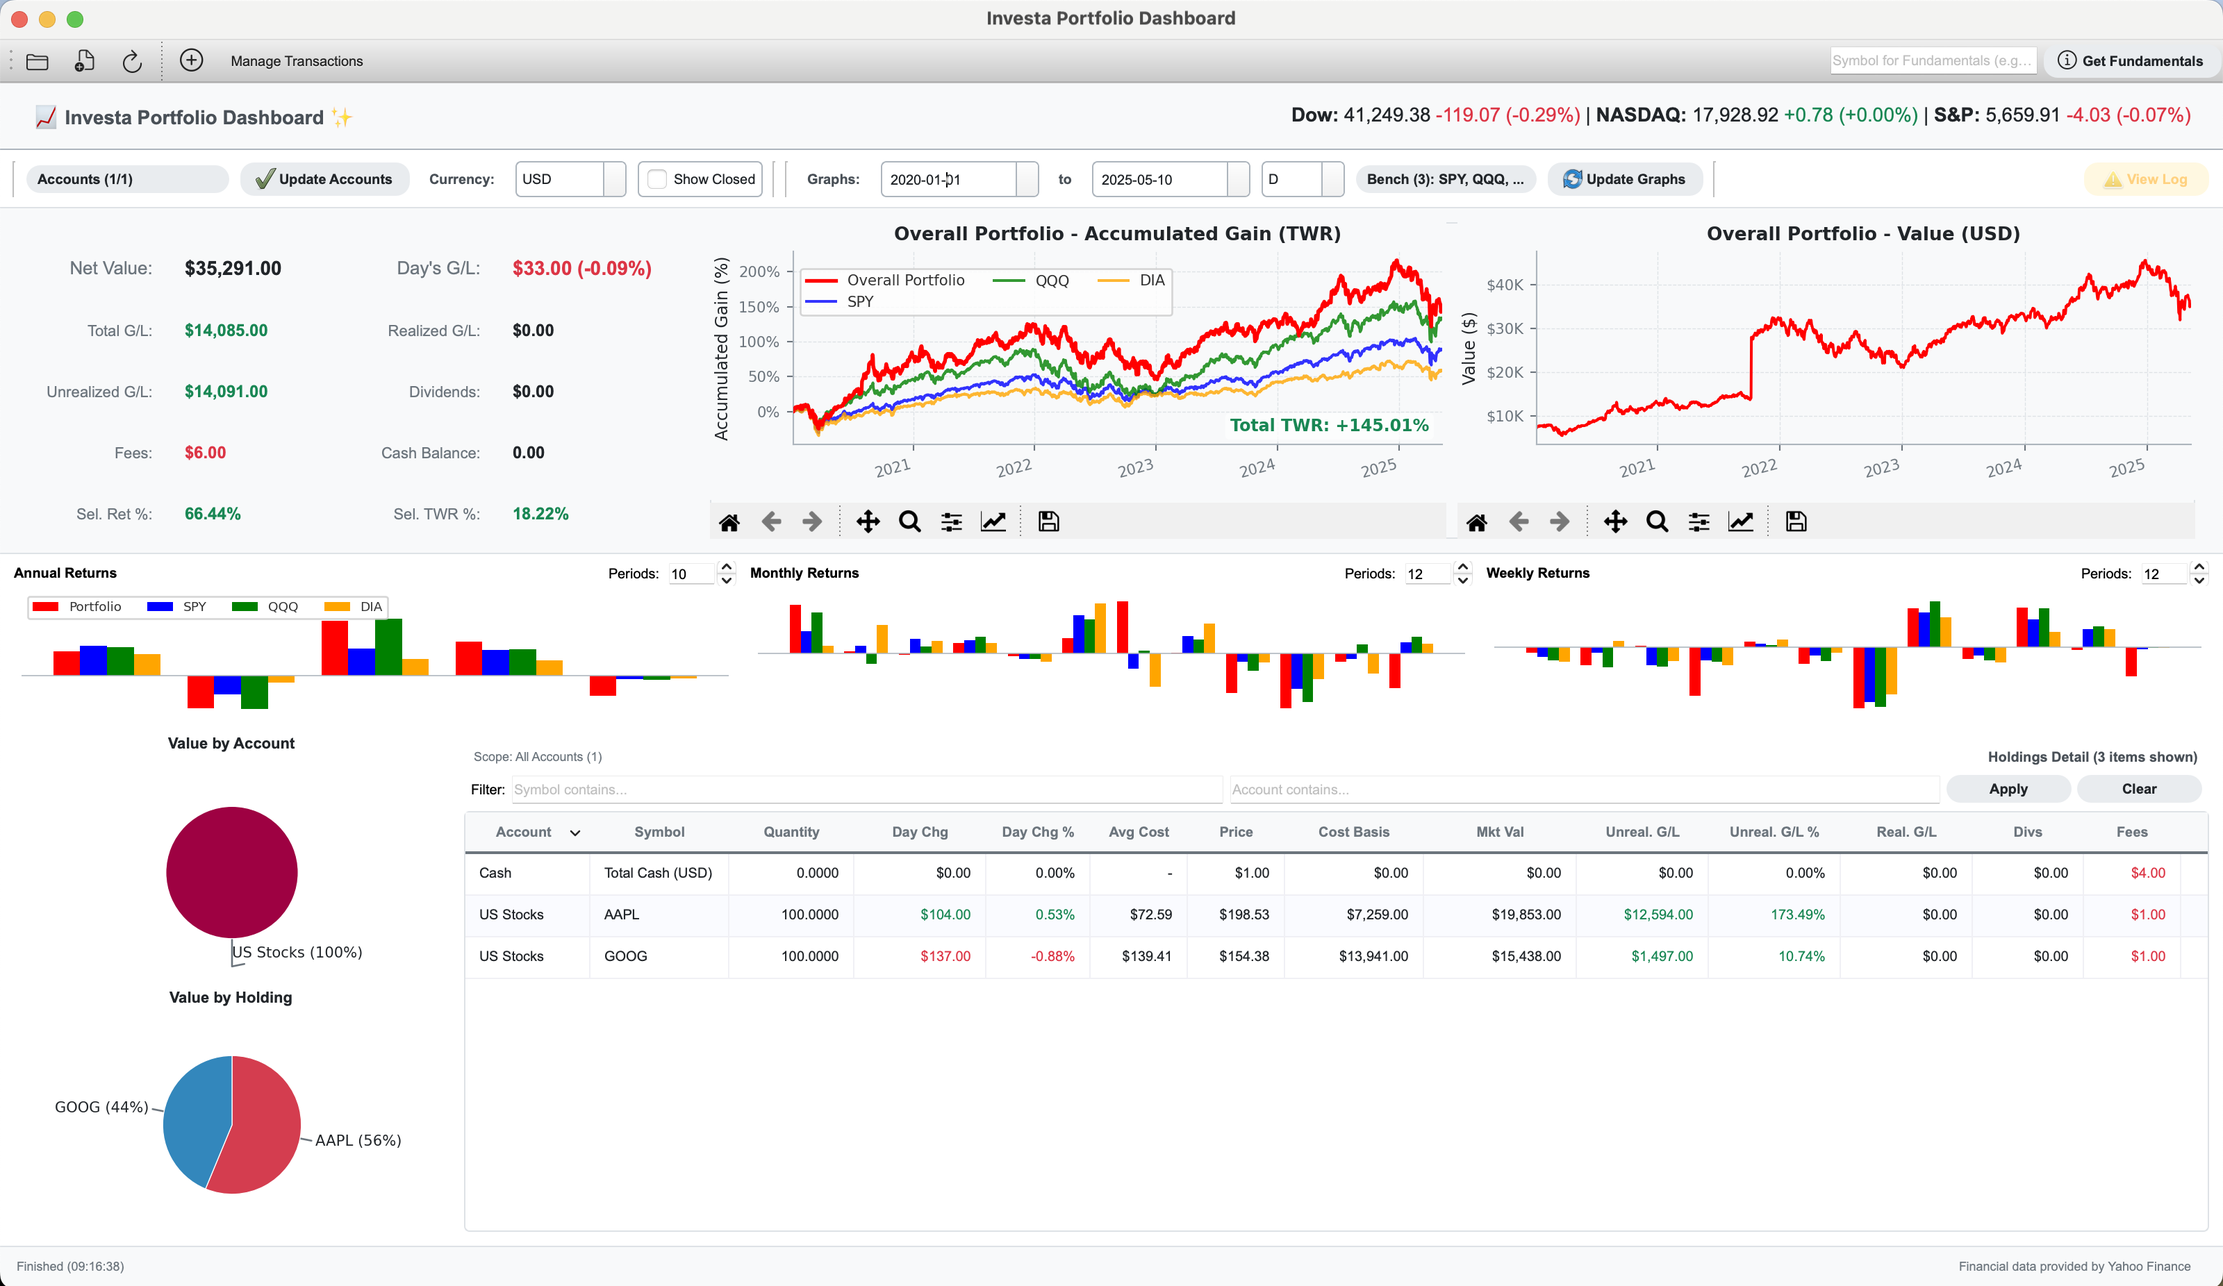
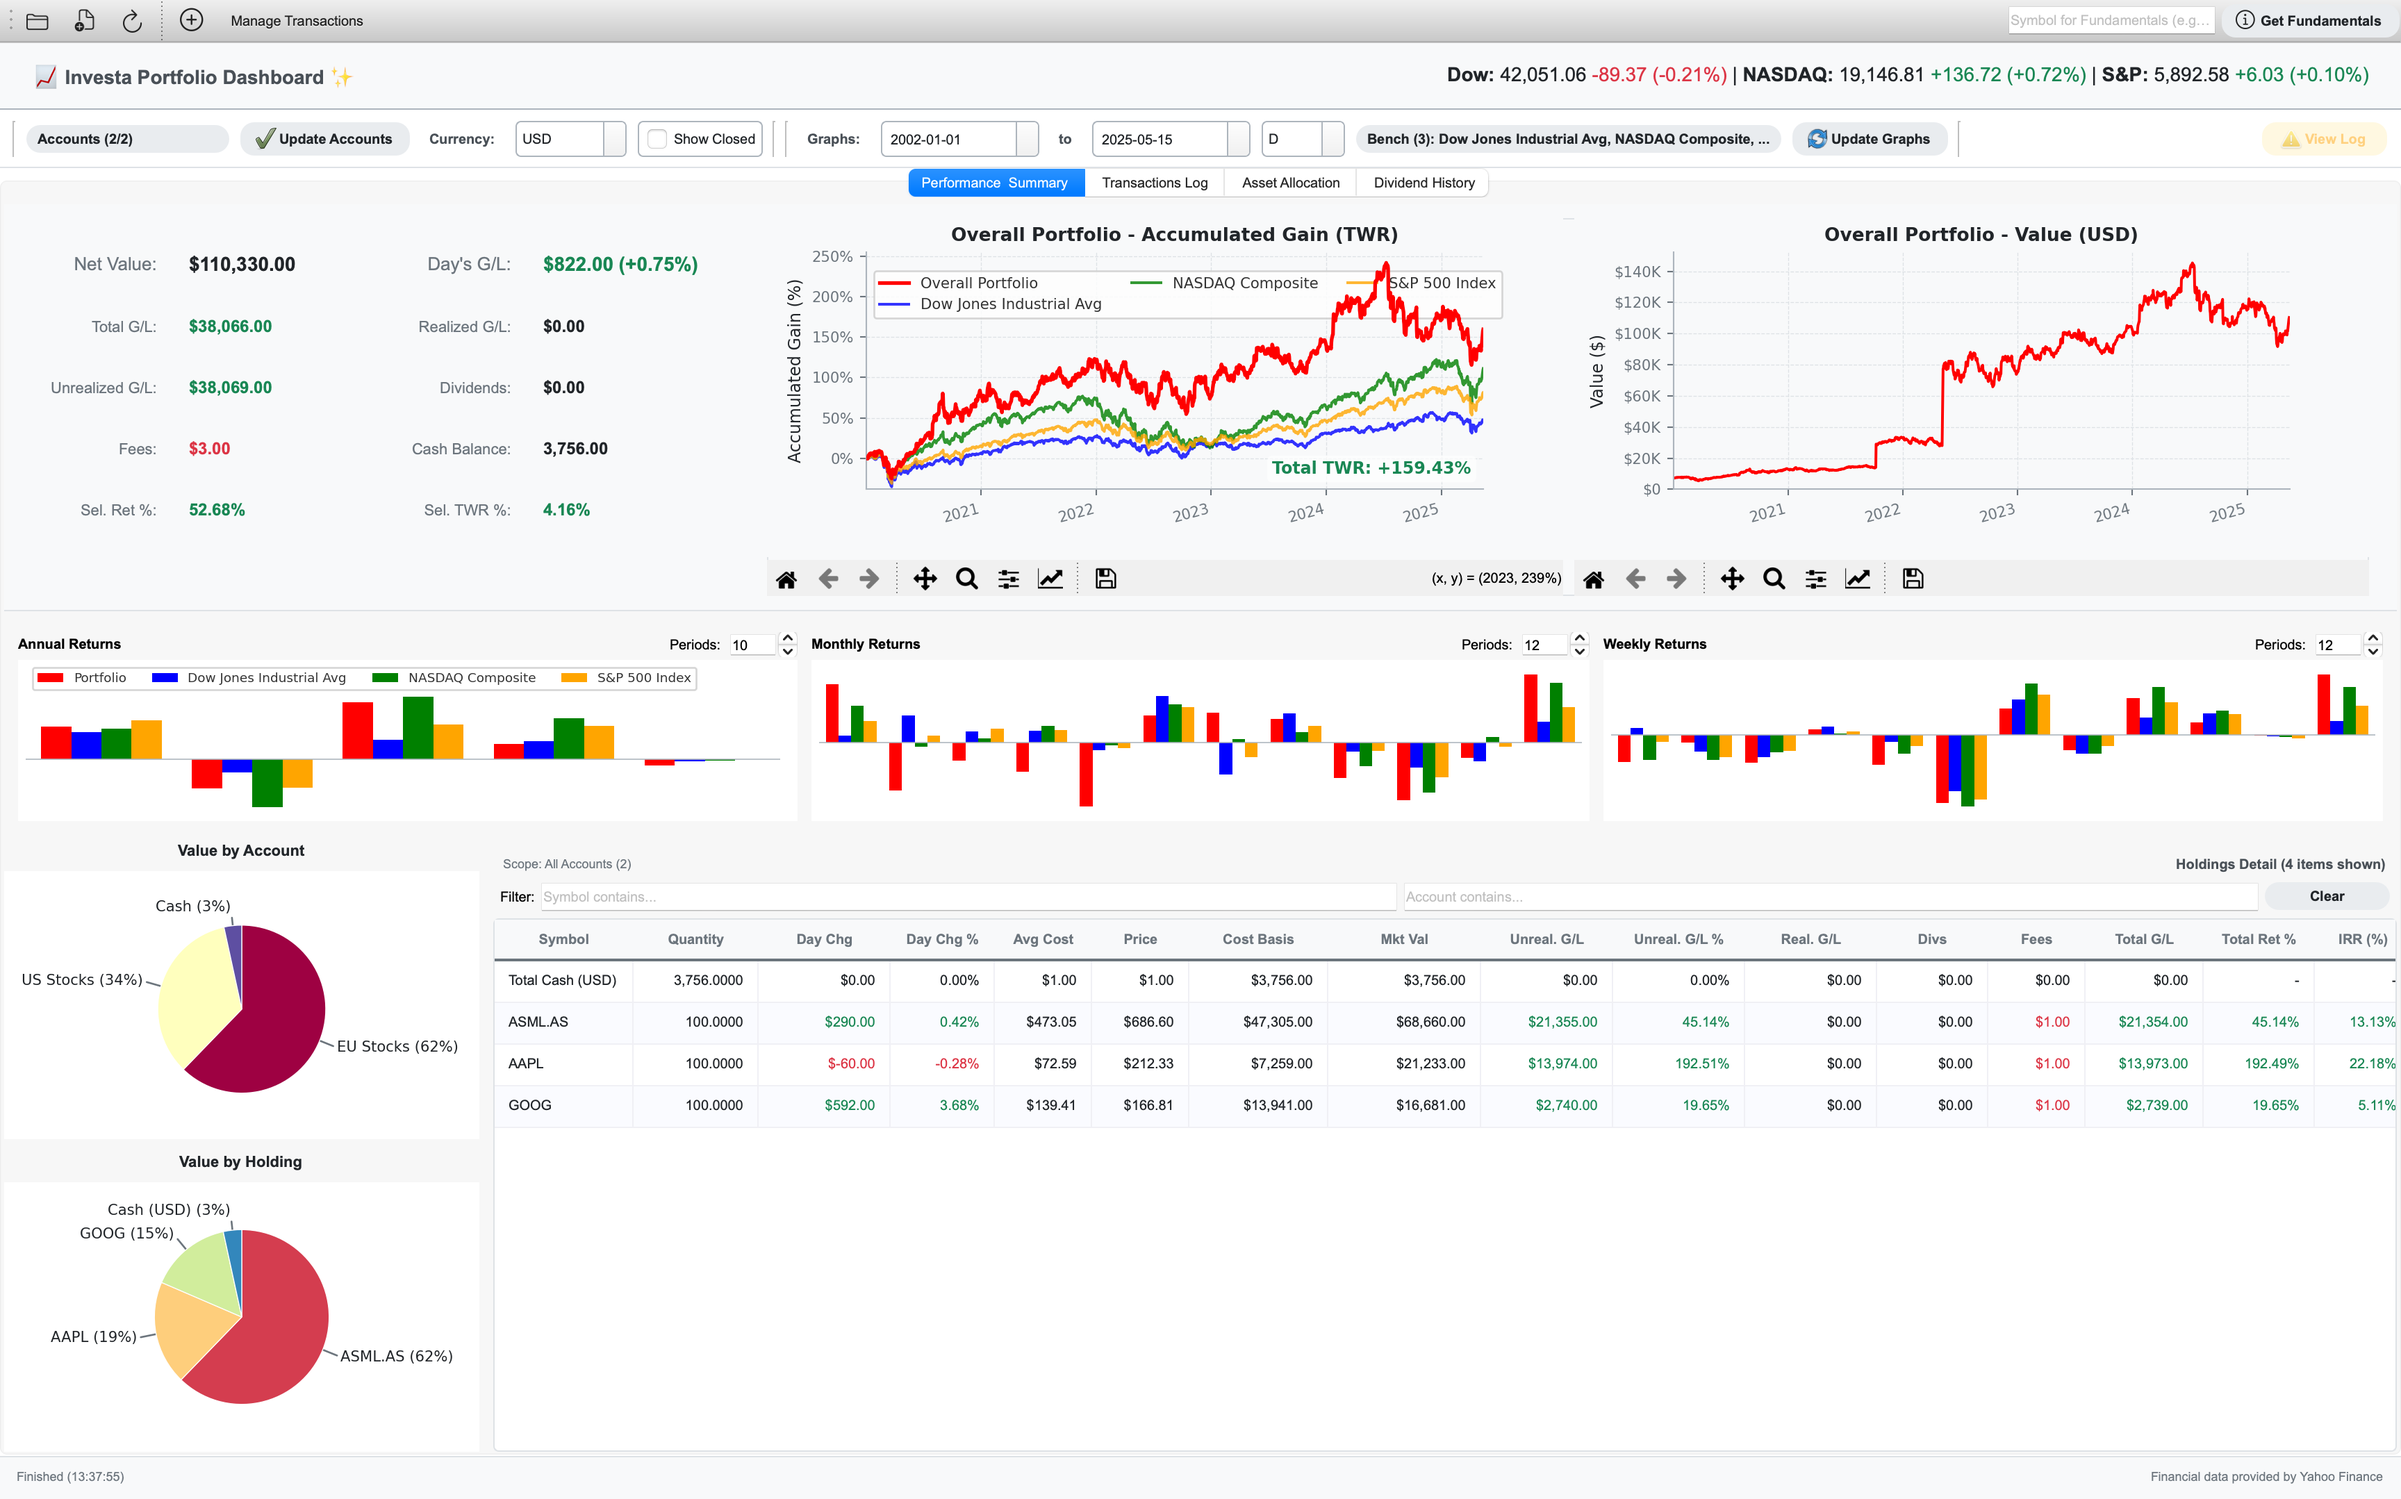
Uodate: New screenshots

diff --git a/README.md b/README.md
@@ -42,10 +42,9 @@ For a step-by-step guide on how to set up and use Investa, please see our detail
 
 ## Screenshots
 
-![Main Dashboard View](screenshots/main_dashboard.png)
-<!--[Transaction Management Dialog](screenshots/transaction_management.png)
-![Fundamental Data Viewer](screenshots/fundamental_data_viewer.png)
-![New Transactions File Dialog](screenshots/add_new_transactions.png)]-->
+![Main Dashboard View](screenshots/Investa_screen_1.png)
+![Transaction Log](screenshots/Investa_screen_2.png)
+![Asset Allocation](screenshots/Investa_screen_3.png)
 
 ## Technology Stack
 
